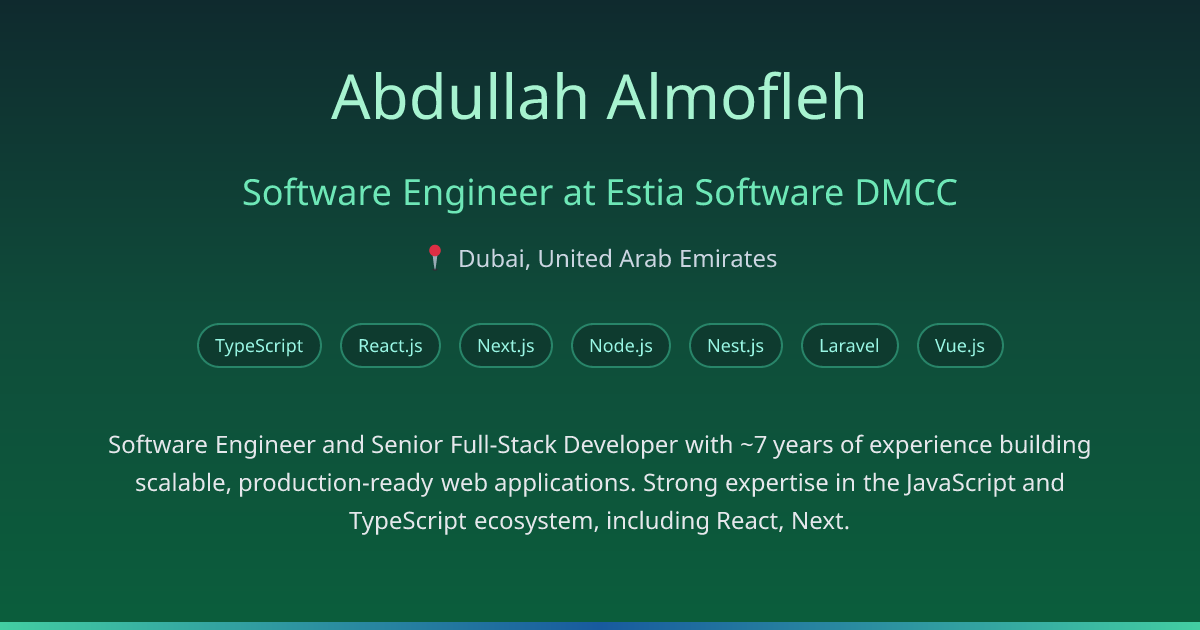
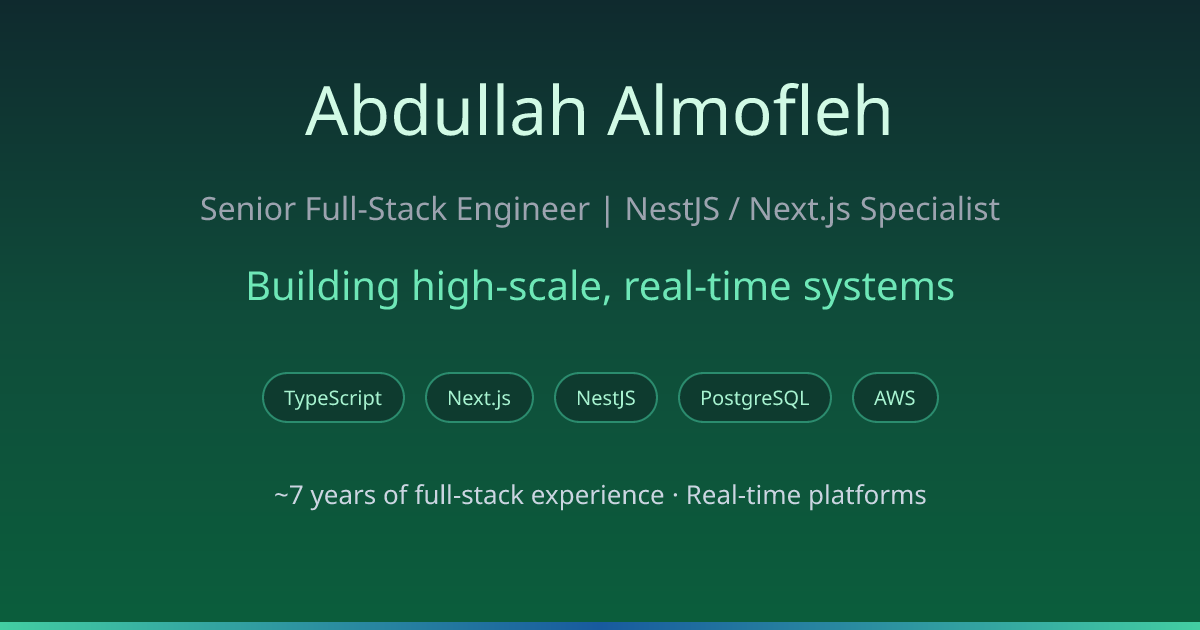
feat: update `resumeData.json` to include `topSkills` and `identityLine`; enhance `generateResumeOGImage` for improved layout and styling

diff --git a/scripts/generate-og-images.ts b/scripts/generate-og-images.ts
@@ -38,9 +38,6 @@ async function generateOGImage(filename: string, jsx: JSX.Element, options: Imag
 }
 
 async function generateResumeOGImage(): Promise<void> {
-  const currentRole = resumeData.experience.find((exp) => exp.current) || resumeData.experience[0];
-  const topSkills = ["TypeScript", "React.js", "Next.js", "Node.js", "Nest.js", "Laravel", "Vue.js"];
-
   const jsx: JSX.Element = {
     type: "div",
     key: "og-resume-main",
@@ -64,7 +61,7 @@ async function generateResumeOGImage(): Promise<void> {
               display: "flex",
               flexDirection: "column",
               alignItems: "center",
-              padding: "40px 60px",
+              padding: "50px 60px 30px",
               textAlign: "center",
             },
             children: [
@@ -72,10 +69,10 @@ async function generateResumeOGImage(): Promise<void> {
                 type: "h1",
                 props: {
                   style: {
-                    fontSize: "62px",
+                    fontSize: "68px",
                     fontWeight: "bold",
-                    color: "#A7F3D0",
-                    marginBottom: "18px",
+                    color: "#D1FAE5",
+                    marginBottom: "20px",
                     lineHeight: 1.1,
                   },
                   children: resumeData.personalInfo.name,
@@ -85,40 +82,32 @@ async function generateResumeOGImage(): Promise<void> {
                 type: "h2",
                 props: {
                   style: {
-                    fontSize: "36px",
-                    fontWeight: "700",
-                    color: "#6EE7B7",
-                    marginBottom: "24px",
+                    fontSize: "32px",
+                    fontWeight: "600",
+                    color: "#9CA3AF",
+                    marginBottom: "28px",
                   },
-                  children: `${currentRole!.title} @ ${currentRole!.company}`,
+                  children: resumeData.personalInfo.title,
                 },
               },
+              // Identity line (bold, impactful)
               {
                 type: "div",
                 props: {
                   style: {
-                    display: "flex",
-                    alignItems: "center",
-                    fontSize: "24px",
-                    color: "#CBD5E1",
-                    marginBottom: "8px",
+                    fontSize: "40px",
+                    fontWeight: "800",
+                    color: "#6EE7B7",
+                    marginBottom: "32px",
+                    lineHeight: 1.3,
                   },
-                  children: [
-                    {
-                      type: "span",
-                      props: {
-                        style: { marginRight: "10px", fontSize: "26px" },
-                        children: "📍",
-                      },
-                    },
-                    resumeData.personalInfo.location,
-                  ],
+                  children: resumeData.og.identityLine,
                 },
               },
             ],
           },
         },
-        // Skills section
+        // Skills section (reduced to 5 max)
         {
           type: "div",
           props: {
@@ -126,7 +115,7 @@ async function generateResumeOGImage(): Promise<void> {
               display: "flex",
               flexDirection: "column",
               alignItems: "center",
-              padding: "0 60px 40px",
+              padding: "0 60px 35px",
             },
             children: [
               {
@@ -136,20 +125,21 @@ async function generateResumeOGImage(): Promise<void> {
                     display: "flex",
                     flexWrap: "wrap",
                     justifyContent: "center",
-                    gap: "18px",
+                    gap: "20px",
                     maxWidth: "1000px",
                   },
-                  children: topSkills.map((skill, index) => ({
+                  children: resumeData.og.topSkills.map((skill, index) => ({
                     type: "div",
                     key: index,
                     props: {
                       style: {
                         background: "#0E3B2F",
-                        border: "2px solid rgba(67, 206, 162, 0.50)",
+                        border: "2px solid rgba(67, 206, 162, 0.55)",
                         borderRadius: "999px",
-                        padding: "8px 16px",
-                        fontSize: "18px",
-                        color: "#99F6E4",
+                        padding: "10px 20px",
+                        fontSize: "20px",
+                        fontWeight: "600",
+                        color: "#A7F3D0",
                       },
                       children: skill,
                     },
@@ -159,7 +149,7 @@ async function generateResumeOGImage(): Promise<void> {
             ],
           },
         },
-        // Summary
+        // Condensed experience line (replaces paragraph)
         {
           type: "div",
           props: {
@@ -175,12 +165,13 @@ async function generateResumeOGImage(): Promise<void> {
                 type: "p",
                 props: {
                   style: {
-                    fontSize: "24px",
-                    color: "#E5E7EB",
-                    lineHeight: 1.6,
+                    fontSize: "26px",
+                    fontWeight: "500",
+                    color: "#CBD5E1",
+                    lineHeight: 1.5,
                     maxWidth: "1000px",
                   },
-                  children: resumeData.summary.split(".").slice(0, 2).join(". ") + ".",
+                  children: resumeData.og.experienceLine,
                 },
               },
             ],
